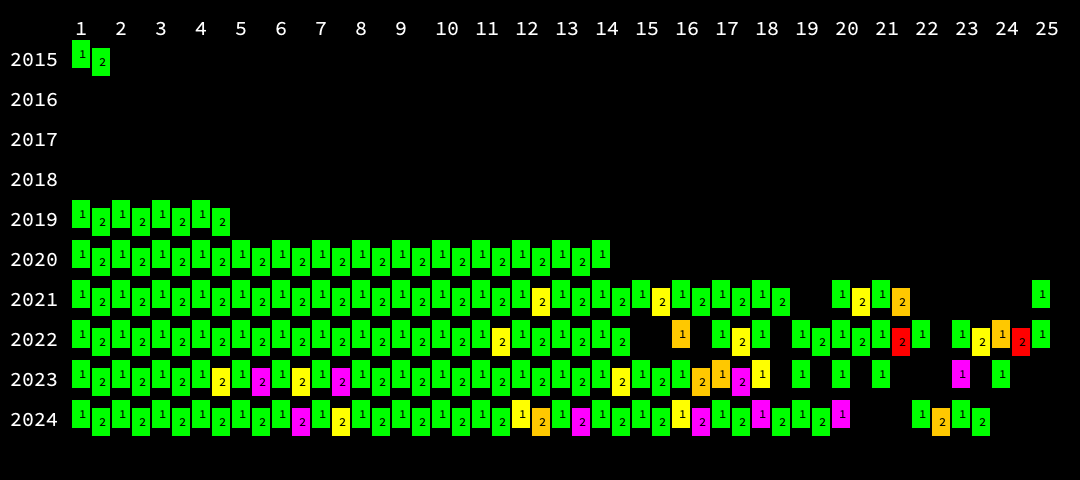
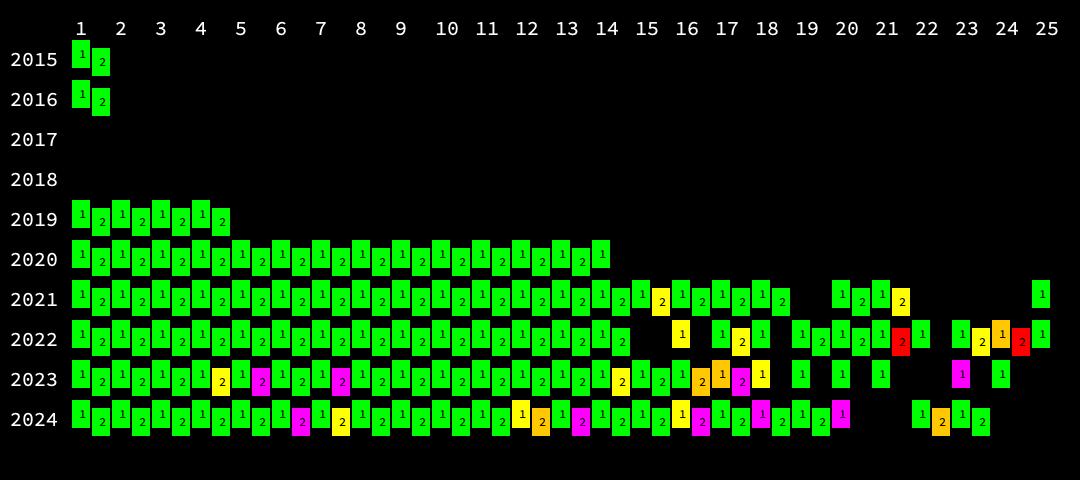
Upgrade to Java 21; start 2016.

diff --git a/src/main/java/com/simongarton/adventofcode/year2016/Year2016Day1.java b/src/main/java/com/simongarton/adventofcode/year2016/Year2016Day1.java
@@ -1,12 +1,20 @@
 package com.simongarton.adventofcode.year2016;
 
 import com.simongarton.adventofcode.AdventOfCodeChallenge;
+import com.simongarton.adventofcode.common.ChallengeCoord;
+import com.simongarton.adventofcode.common.CompassRose;
+
+import java.util.HashSet;
+import java.util.Map;
+import java.util.Set;
+
+import static com.simongarton.adventofcode.common.CompassRose.*;
 
 public class Year2016Day1 extends AdventOfCodeChallenge {
 
     @Override
     public String title() {
-        return "Day 0: Template code";
+        return "Day 1: No Time for a Taxicab";
     }
 
     @Override
@@ -16,11 +24,101 @@ public class Year2016Day1 extends AdventOfCodeChallenge {
 
     @Override
     public String part1(final String[] input) {
-        return null;
+
+        int x = 0;
+        int y = 0;
+        CompassRose heading = CompassRose.NORTH;
+
+        for (final String direction : input) {
+            for (final String details : direction.split(", ")) {
+                final String turn = details.substring(0, 1);
+                final int steps = Integer.parseInt(details.substring(1));
+                heading = this.turnIntoHeading(heading, turn);
+                switch (heading) {
+                    case NORTH -> {
+                        y = y - steps;
+                    }
+                    case EAST -> {
+                        x = x - steps;
+                    }
+                    case SOUTH -> {
+                        y = y + steps;
+                    }
+                    case WEST -> {
+                        x = x + steps;
+                    }
+                }
+            }
+        }
+        return String.valueOf(Math.abs(y) + Math.abs(x));
+    }
+
+    private CompassRose turnIntoHeading(final CompassRose heading, final String turn) {
+
+        final Map<CompassRose, CompassRose> turns;
+        if (turn.equalsIgnoreCase("R")) {
+            turns = Map.of(
+                    NORTH, EAST,
+                    EAST, SOUTH,
+                    SOUTH, WEST,
+                    WEST, NORTH
+            );
+        } else {
+            turns = Map.of(
+                    NORTH, WEST,
+                    WEST, SOUTH,
+                    SOUTH, EAST,
+                    EAST, NORTH
+            );
+        }
+        return turns.get(heading);
     }
 
     @Override
     public String part2(final String[] input) {
-        return null;
+
+        int x = 0;
+        int y = 0;
+        CompassRose heading = CompassRose.NORTH;
+        final Set<ChallengeCoord> visited = new HashSet<>();
+
+        for (final String direction : input) {
+            boolean foundHQ = false;
+            for (final String details : direction.split(", ")) {
+                final String turn = details.substring(0, 1);
+                final int steps = Integer.parseInt(details.substring(1));
+                heading = this.turnIntoHeading(heading, turn);
+                final ChallengeCoord delta;
+                switch (heading) {
+                    case NORTH -> {
+                        delta = ChallengeCoord.builder().x(0).y(-1).build();
+                    }
+                    case EAST -> {
+                        delta = ChallengeCoord.builder().x(1).y(0).build();
+                    }
+                    case SOUTH -> {
+                        delta = ChallengeCoord.builder().x(0).y(1).build();
+                    }
+                    case WEST -> {
+                        delta = ChallengeCoord.builder().x(-1).y(0).build();
+                    }
+                    default -> throw new RuntimeException("oop");
+                }
+                for (int i = 0; i < steps; i++) {
+                    x = x + delta.getX();
+                    y = y + delta.getY();
+                    final ChallengeCoord current = ChallengeCoord.builder().x(x).y(y).build();
+                    if (visited.contains(current)) {
+                        foundHQ = true;
+                        break;
+                    }
+                    visited.add(current);
+                }
+                if (foundHQ) {
+                    break;
+                }
+            }
+        }
+        return String.valueOf(Math.abs(y) + Math.abs(x));
     }
 }

diff --git a/src/main/java/com/simongarton/adventofcode/AdventOfCode.java b/src/main/java/com/simongarton/adventofcode/AdventOfCode.java
@@ -1,6 +1,7 @@
 package com.simongarton.adventofcode;
 
 import com.simongarton.adventofcode.year2015.Year2015Day1;
+import com.simongarton.adventofcode.year2016.Year2016Day1;
 import com.simongarton.adventofcode.year2019.Year2019Day1;
 import com.simongarton.adventofcode.year2019.Year2019Day2;
 import com.simongarton.adventofcode.year2019.Year2019Day3;
@@ -43,6 +44,7 @@ public class AdventOfCode {
         // can I load these by reflection / inspection ?
         final AdventOfCode adventOfCode = new AdventOfCode();
         adventOfCode.load2015();
+        adventOfCode.load2016();
         adventOfCode.load2019();
         adventOfCode.load2020();
         adventOfCode.load2021();
@@ -162,6 +164,10 @@ public class AdventOfCode {
 
     private void load2015() {
         this.challenges.add(new Year2015Day1());
+    }
+
+    private void load2016() {
+        this.challenges.add(new Year2016Day1());
     }
 
     private void load2019() {

diff --git a/src/main/java/com/simongarton/adventofcode/CurrentChallenge.java b/src/main/java/com/simongarton/adventofcode/CurrentChallenge.java
@@ -1,14 +1,14 @@
 package com.simongarton.adventofcode;
 
-import com.simongarton.adventofcode.year2024.Year2024Day20;
+import com.simongarton.adventofcode.year2016.Year2016Day1;
 
 public class CurrentChallenge {
 
-    public static String DAY = "Day20";
-    public static int YEAR = 2024;
+    public static String DAY = "1";
+    public static int YEAR = 2016;
 
     public static AdventOfCodeChallenge getCurrentChallenge() {
 
-        return new Year2024Day20();
+        return new Year2016Day1();
     }
 }

diff --git a/src/main/java/com/simongarton/adventofcode/Sample.java b/src/main/java/com/simongarton/adventofcode/Sample.java
@@ -10,7 +10,8 @@ public class Sample {
 
     public static void main(final String[] args) throws IOException {
 
-        final Path path = Paths.get(String.format("src/main/resources/%s/%s-%s-sample.txt",
+        // it's always 1-sample
+        final Path path = Paths.get(String.format("src/main/resources/%s/%s-Day%s-1-sample.txt",
                 CurrentChallenge.YEAR,
                 CurrentChallenge.YEAR,
                 CurrentChallenge.DAY));

diff --git a/src/main/java/com/simongarton/adventofcode/Part1.java b/src/main/java/com/simongarton/adventofcode/Part1.java
@@ -10,7 +10,7 @@ public class Part1 {
 
     public static void main(final String[] args) throws IOException {
 
-        final Path path = Paths.get(String.format("src/main/resources/%s/%s-%s-1.txt",
+        final Path path = Paths.get(String.format("src/main/resources/%s/%s-Day%s-1.txt",
                 CurrentChallenge.YEAR,
                 CurrentChallenge.YEAR,
                 CurrentChallenge.DAY));

diff --git a/src/main/java/com/simongarton/adventofcode/Part2.java b/src/main/java/com/simongarton/adventofcode/Part2.java
@@ -10,7 +10,7 @@ public class Part2 {
 
     public static void main(final String[] args) throws IOException {
 
-        final Path path = Paths.get(String.format("src/main/resources/%s/%s-%s-1.txt",
+        final Path path = Paths.get(String.format("src/main/resources/%s/%s-Day%s-1.txt",
                 CurrentChallenge.YEAR,
                 CurrentChallenge.YEAR,
                 CurrentChallenge.DAY));

diff --git a/src/main/java/com/simongarton/adventofcode/common/CompassRose.java b/src/main/java/com/simongarton/adventofcode/common/CompassRose.java
@@ -1,0 +1,20 @@
+package com.simongarton.adventofcode.common;
+
+import lombok.Getter;
+
+public enum CompassRose {
+
+    NORTH(0),
+    EAST(1),
+    SOUTH(2),
+    WEST(3);
+
+    @Getter
+    final private int heading;
+
+    CompassRose(final int heading) {
+        this.heading = heading;
+    }
+
+
+}

diff --git a/readme.md b/readme.md
@@ -1146,6 +1146,14 @@ fuel ...
 
 https://adventofcode.com/2019/day/1
 
+## 2016
+
+### Day 1: No Time for a Taxicab
+
+Simple coordinates with left and right turns.
+
+https://adventofcode.com/2015/day/1
+
 ## 2015
 
 ### Day 1: Not Quite Lisp
@@ -1153,4 +1161,4 @@ https://adventofcode.com/2019/day/1
 The very first AoC puzzle. Simple string manipulation, the first one I did with regex, the second I had to write a tiny
 loop.
 
-https://adventofcode.com/2023/day/1
+https://adventofcode.com/2015/day/1

diff --git a/progress.md b/progress.md
@@ -2,7 +2,7 @@
                 1111111111222222  
        1234567890123456789012345  
 2015 : ✓  
-2016 :   
+2016 : ✓  
 2017 :   
 2018 :   
 2019 : ✓✓✓✓  
